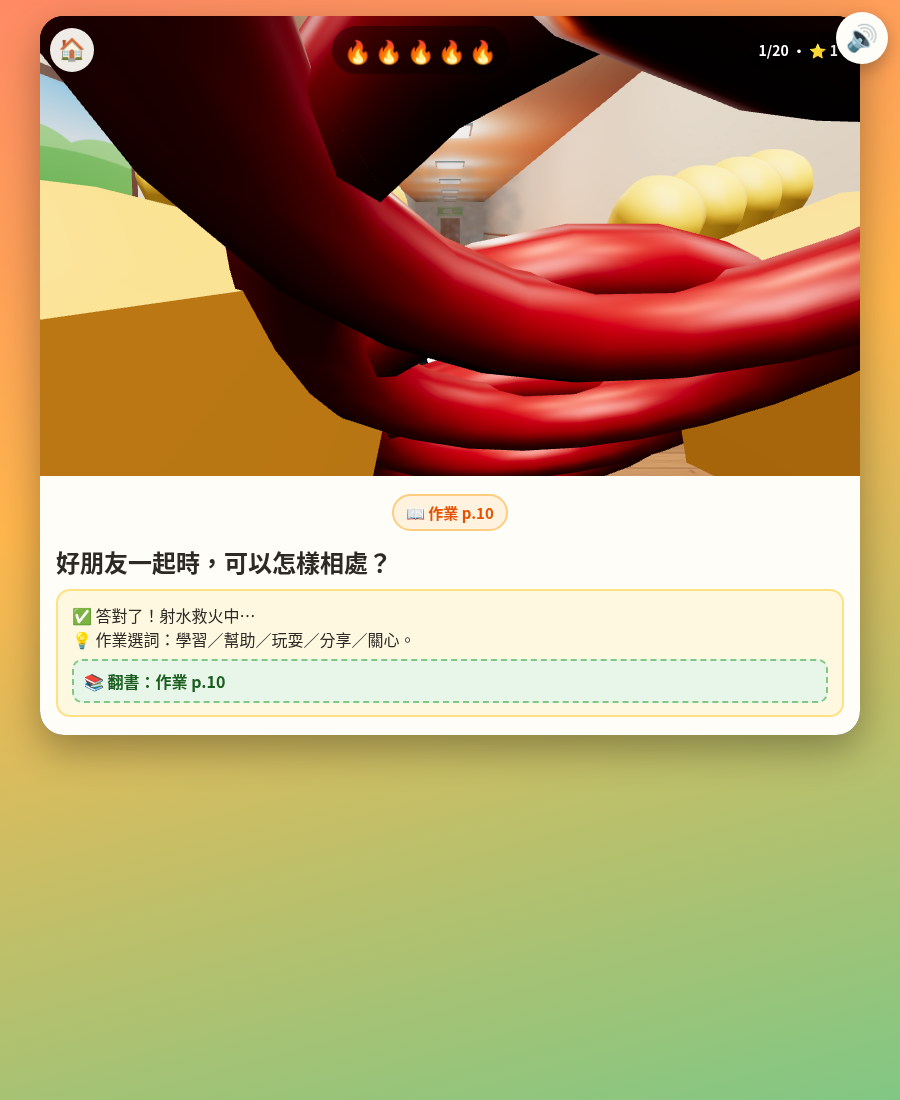
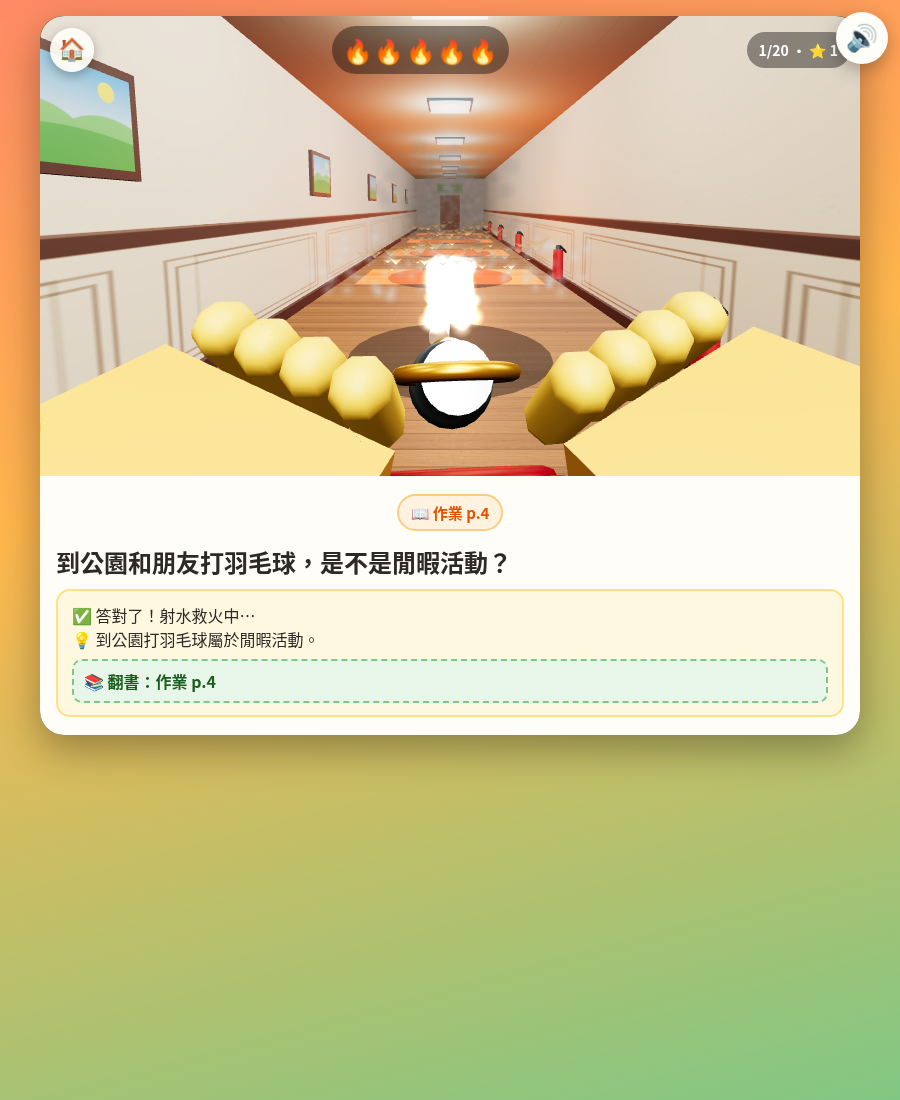
Scale down hose viewmodel so corridor and fire stay readable

diff --git a/js/fire3d.js b/js/fire3d.js
@@ -508,10 +508,10 @@ function buildZone(i) {
 function buildHose() {
   hoseGroup = new THREE.Group();
   camera.add(hoseGroup);
-  // Lower + tip pitched up so players see hose body + nozzle from above (not barrel-on circle)
-  hoseGroup.position.set(0.05, -0.32, -0.45);
-  hoseGroup.rotation.set(-0.55, 0.08, 0.05);
-  hoseGroup.scale.setScalar(1.45);
+  // FPS viewmodel: see red hose + silver nozzle + gloves without filling the frame
+  hoseGroup.position.set(0.02, -0.38, -0.52);
+  hoseGroup.rotation.set(-0.28, 0.04, 0.02);
+  hoseGroup.scale.setScalar(1.15);
 
   const hoseMap = rubberHoseTex();
   const hoseMat = new THREE.MeshStandardMaterial({
@@ -766,9 +766,9 @@ function tick(dt) {
   const t = clock.elapsedTime;
 
   if (hoseGroup) {
-    hoseGroup.rotation.x = -0.55 + Math.sin(t * 1.7) * 0.02 + hoseKick;
-    hoseGroup.rotation.z = 0.05 + Math.sin(t * 1.2) * 0.015;
-    hoseGroup.position.y = -0.32 + Math.sin(t * 2.3) * 0.01;
+    hoseGroup.rotation.x = -0.28 + Math.sin(t * 1.7) * 0.02 + hoseKick;
+    hoseGroup.rotation.z = 0.02 + Math.sin(t * 1.2) * 0.012;
+    hoseGroup.position.y = -0.38 + Math.sin(t * 2.3) * 0.008;
     if (walking) {
       hoseGroup.rotation.x += Math.sin(t * 14) * 0.015;
       hoseGroup.position.y += Math.abs(Math.sin(walkT / walkDur * Math.PI)) * 0.02;
